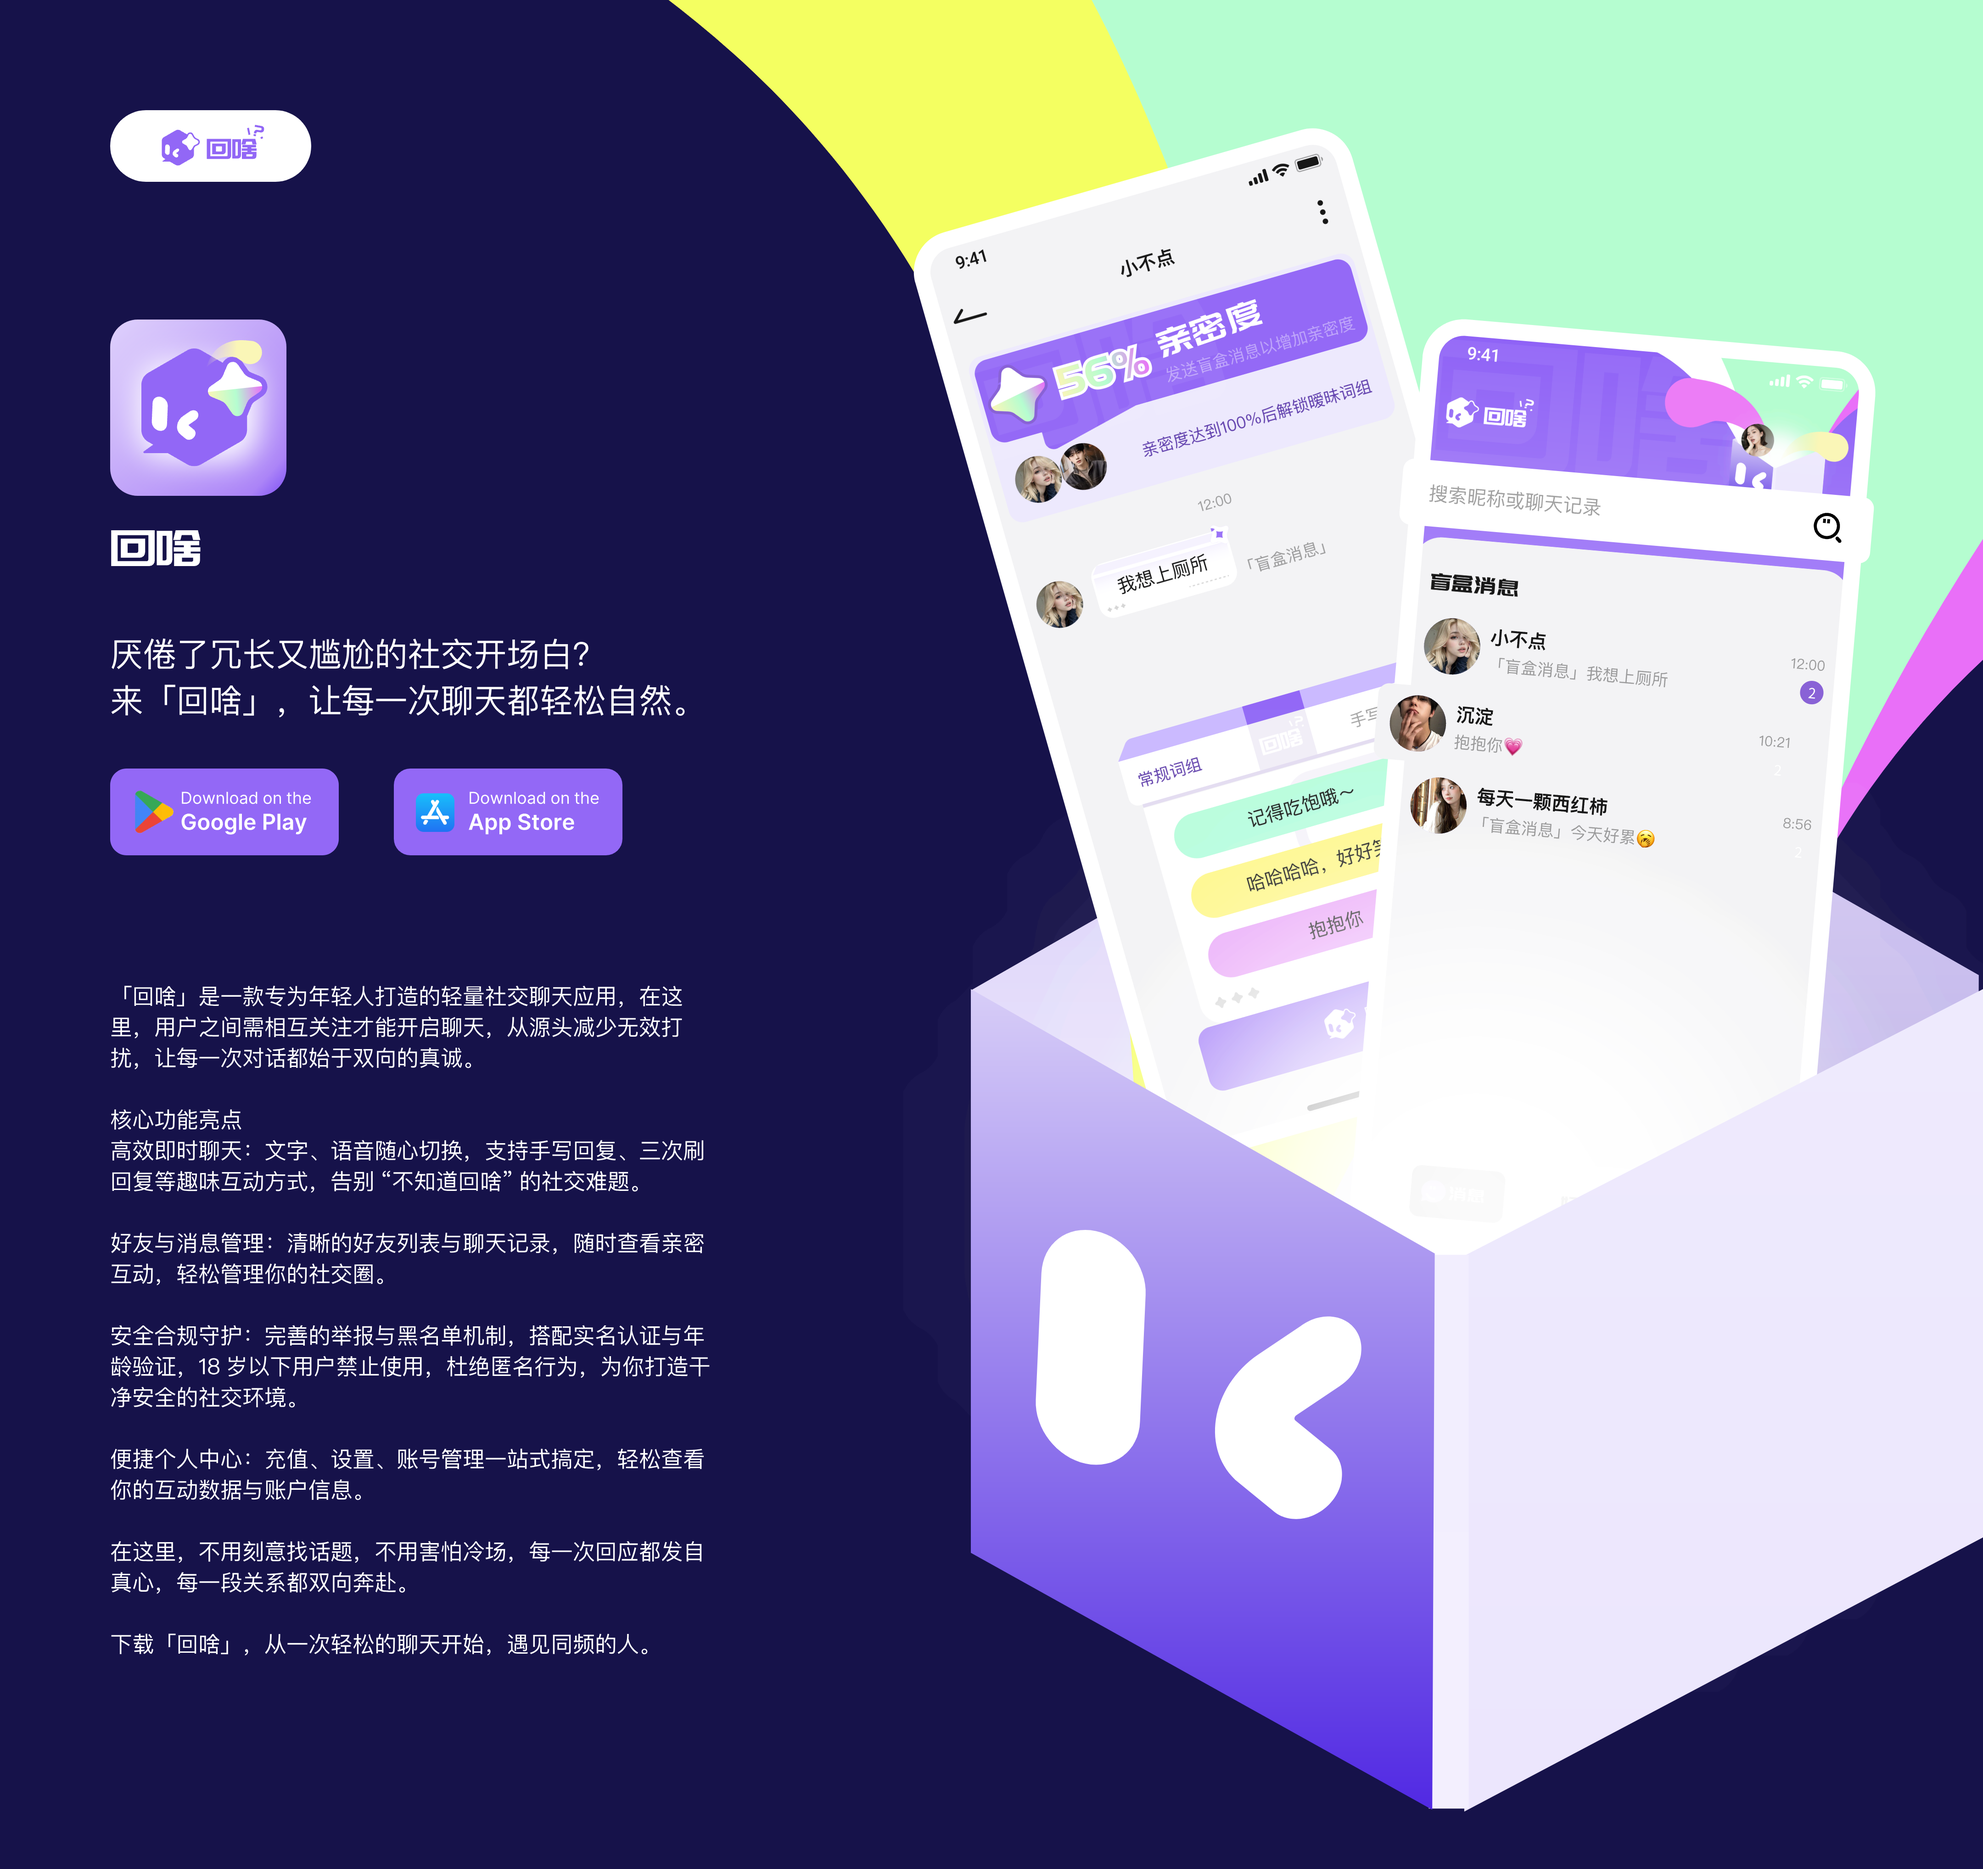
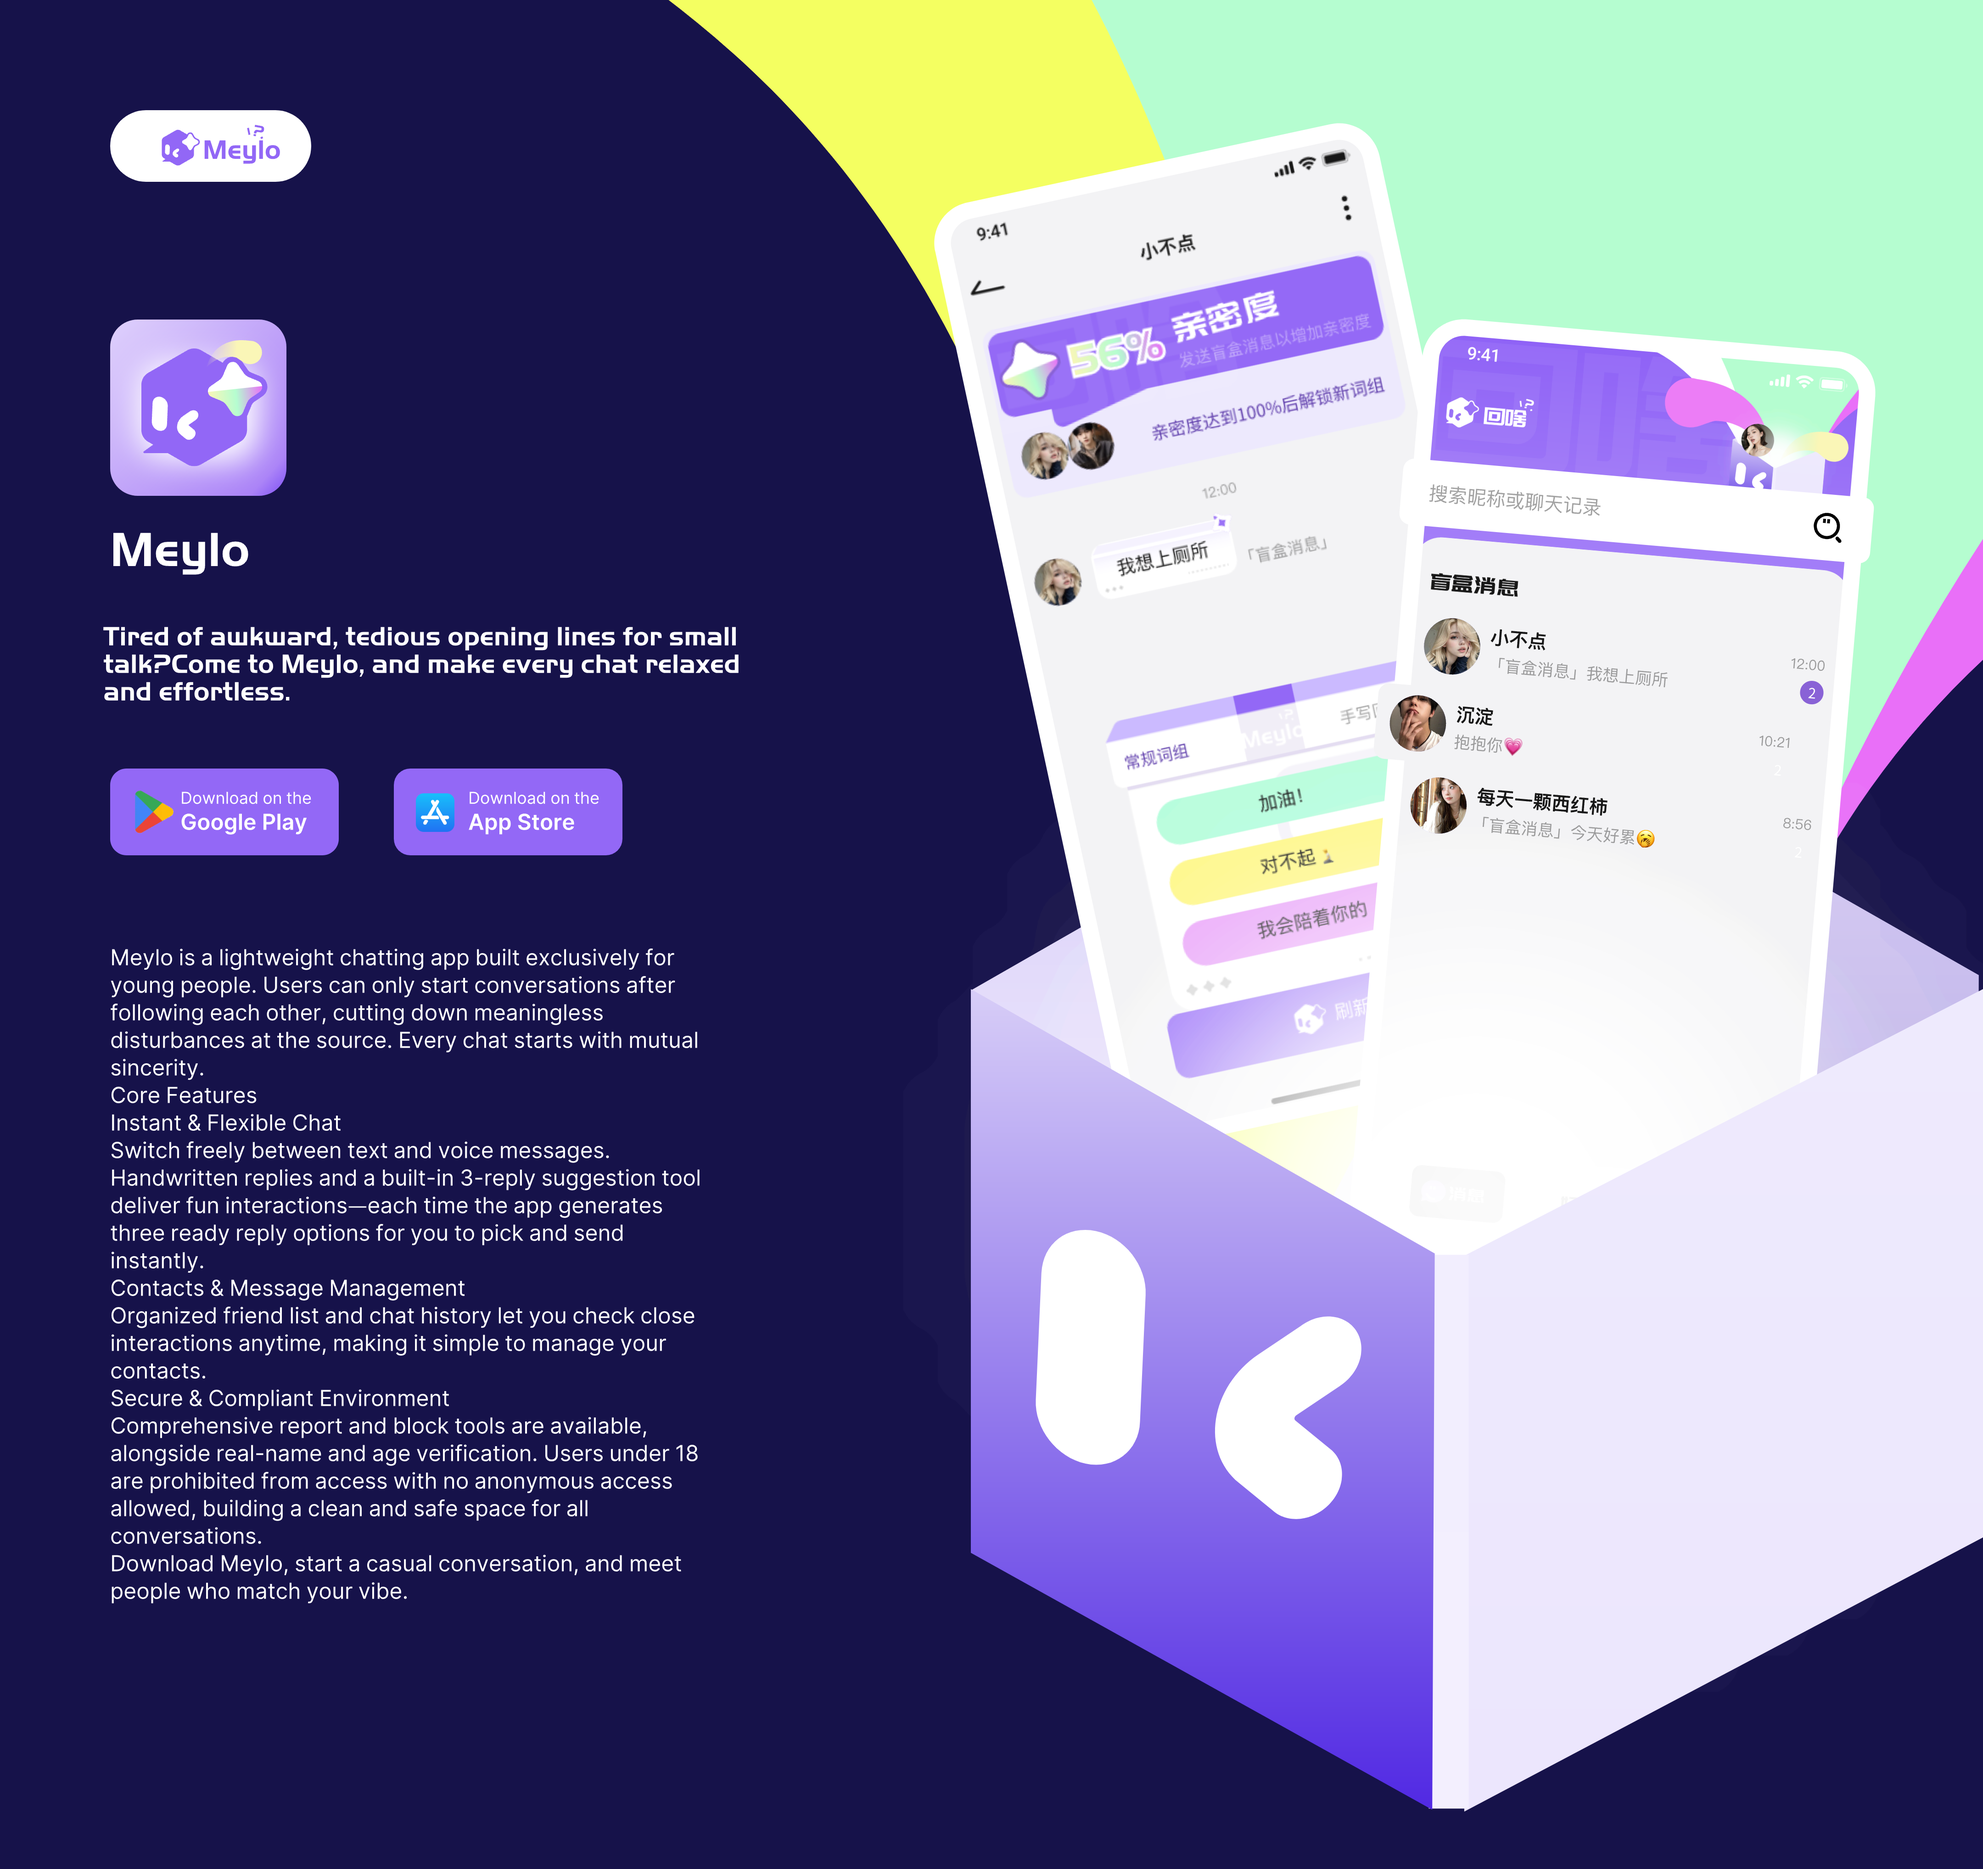
mail

diff --git a/index.html b/index.html
@@ -4,7 +4,7 @@
   <meta charset="UTF-8">
   <meta name="viewport" content="width=device-width, initial-scale=1.0">
   <link rel="icon" href="/favicon.svg" type="image/svg+xml">
-  <title>回啥</title>
+  <title>Meylo</title>
   <meta name="description" content="Opinionated Vite Starter Template">
 </head>
 <body class="font-sans">

diff --git a/src/pages/index.vue b/src/pages/index.vue
@@ -10,7 +10,7 @@ defineOptions({
 
     <div class="email" absolute bottom-10 w-full flex justify-center>
       <div rd-2 bg-black p-2 p-x-5 text-8 color-white>
-        sbj07090688@icloud.com
+        luoyunhong1981@icloud.com
       </div>
     </div>
   </div>

diff --git a/src/pages/privacy.vue b/src/pages/privacy.vue
@@ -2,7 +2,7 @@
 defineOptions({
   name: 'IndexPage',
 })
-const appName = '回啥'
+const appName = 'Meylo'
 </script>
 
 <template>

diff --git a/src/pages/users.vue b/src/pages/users.vue
@@ -2,7 +2,7 @@
 defineOptions({
   name: 'IndexPage',
 })
-const appName = '回啥'
+const appName = 'Meylo'
 </script>
 
 <template>
